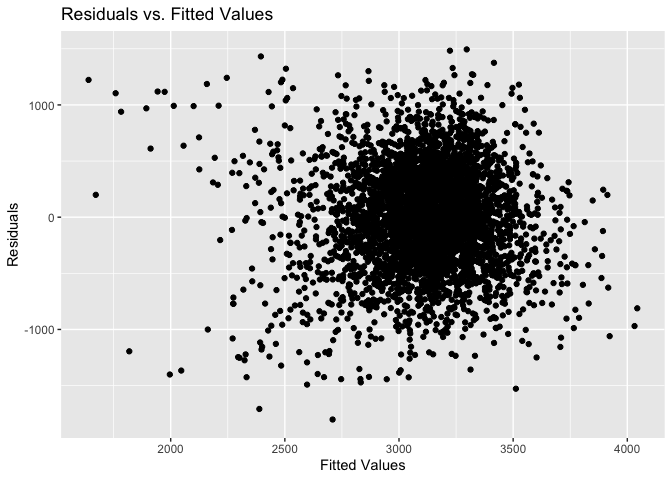
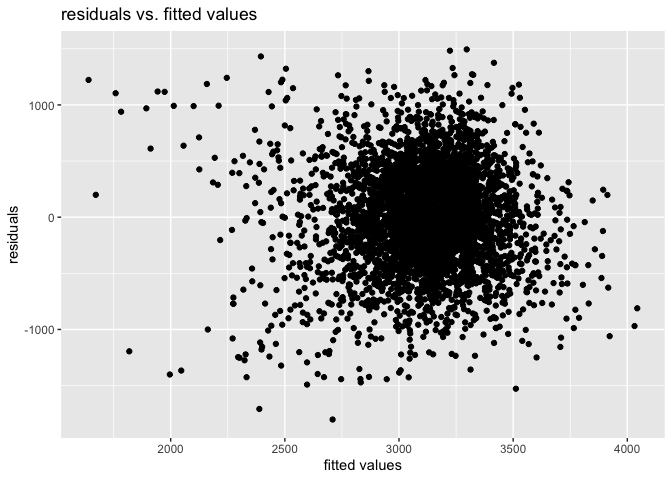
Finalized Problem 3 with all descriptions

Changed region(s): [[0.0938, 0.0, 0.4062, 0.0625], [0.4688, 0.9375, 0.5938, 1.0], [0.0, 0.4062, 0.0312, 0.5625]]

diff --git a/p8105_hw6_lah2231.md b/p8105_hw6_lah2231.md
@@ -177,9 +177,8 @@ city_model_results |>
   )
 ```
 
-![](p8105_hw6_lah2231_files/figure-gfm/unnamed-chunk-7-1.png)<!-- -->
-
-I plotted the adjusted odds ratio and confidence intervals for resolved
+![](p8105_hw6_lah2231_files/figure-gfm/unnamed-chunk-7-1.png)<!-- --> I
+plotted the adjusted odds ratio and confidence intervals for resolved
 homicides in each city, comparing male and female victims. The
 likelihood to resolve cases with male victims varies across cities, in
 cities that have an OR of less than 1 male victims are less likely to
@@ -224,6 +223,8 @@ missing_values
     ##    ppbmi     ppwt   smoken   wtgain 
     ##        0        0        0        0
 
+There are no missing values.
+
 ## Summarizing dataset
 
 ``` r
@@ -266,7 +267,7 @@ summary(birthweight_data)
     ##  3rd Qu.: 5.000   3rd Qu.: 28.00  
     ##  Max.   :60.000   Max.   : 89.00
 
-## Proposed model with maternal height, maternal weight gain, gestational age, and presence of malformations
+## My proposed model with maternal height, maternal weight gain, gestational age, and presence of malformations
 
 ``` r
 proposed_model <- lm(bwt ~ mheight + wtgain + gaweeks + malform, data = birthweight_data)
@@ -295,6 +296,18 @@ summary(proposed_model)
     ## Multiple R-squared:  0.2308, Adjusted R-squared:  0.2301 
     ## F-statistic: 325.3 on 4 and 4337 DF,  p-value: < 2.2e-16
 
+I picked maternal height, maternal weight gain, gestational age, and
+presence of malformations for my linear regression model with lm. This
+model shows that maternal height, maternal weight gain, and gestational
+age are correlated with birthweight. The three stars indicate very
+strong statistical significance for the corresponding predictors of p \<
+0.001. Malformations had no meaningful effect with p of 0.932. The
+adjusted R² of 0.2301 means that this model explains around 23% of the
+variability in birthweight with a residual standard error or typical
+prediction error of 449.4 grams.
+
+## Adding residuals and predictions
+
 ``` r
 library(modelr)
 
@@ -305,15 +318,22 @@ diagnostic_data <- birthweight_data |>
 ggplot(diagnostic_data, aes(x = pred, y = resid)) +
   geom_point() +
   labs(
-    title = "Residuals vs. Fitted Values",
-    x = "Fitted Values",
-    y = "Residuals"
+    title = "residuals vs. fitted values",
+    x = "fitted values",
+    y = "residuals"
   )
 ```
 
 ![](p8105_hw6_lah2231_files/figure-gfm/unnamed-chunk-13-1.png)<!-- --> I
 used modelr::add_predictions and modelr::add_residuals to prepare data
-for plotting residuals against fitted values.
+for plotting residuals against fitted values. The plot now shows
+residuals, the errors between observed and predicted values, plotted
+against fitted values, the predicted birthweights. The points are mostly
+concentrated in one place in the center, with no clear pattern, which
+suggests no obvious non-linearity or heteroscedasticity. Nevertheless
+the relatively wide spread of residuals indicates that the models fit
+explains the variability in birthweight only up to a certain point,
+consistent with the adjusted R² of 0.23.
 
 ## Model 1 Length and gestational age
 
@@ -341,6 +361,11 @@ summary(model1)
     ## Residual standard error: 333.2 on 4339 degrees of freedom
     ## Multiple R-squared:  0.5769, Adjusted R-squared:  0.5767 
     ## F-statistic:  2958 on 2 and 4339 DF,  p-value: < 2.2e-16
+
+Suggested Model 1 predicts birthweight using birth length and
+gestational age, explaining 57.67% of the variability because of the
+adjusted R² = 0.5767. Both predictors are significant with p \< 0.001.
+Residual standard error is 333.2 g.
 
 ## Model 2: Head circumference, length, sex, and interactions
 
@@ -373,6 +398,10 @@ summary(model2)
     ## Residual standard error: 287.7 on 4334 degrees of freedom
     ## Multiple R-squared:  0.6849, Adjusted R-squared:  0.6844 
     ## F-statistic:  1346 on 7 and 4334 DF,  p-value: < 2.2e-16
+
+This model explains 68.4% of the variability in birth weight with
+significant interactions between head circumference, birth length, and
+baby sex.
 
 ## Comparing Models using Cross Validation
 
@@ -414,4 +443,28 @@ ggplot(cv_summary, aes(x = model, y = rmse)) +
 
 ![](p8105_hw6_lah2231_files/figure-gfm/unnamed-chunk-16-1.png)<!-- --> I
 used crossv_mc to create train/test splits, fit models and calculate
-cross-validated RMSEs.
+cross-validated RMSEs. I performed cross-validation to compare the
+predictive performance in terms of RMSE of the three models for birth
+weight and visualized their RMSE distributions using boxplots. Model 2
+has the lowest RMSE, with a median around 290, indicating the best
+predictive performance. Model 1 performs a little bit worse with a
+median RMSE around 330. The proposed model is the worst of them with the
+highest RMSE around 450.
+
+``` r
+cv_summary |>
+  group_by(model) |>
+  summarize(
+    mean_rmse = mean(rmse),
+    median_rmse = median(rmse),
+    min_rmse = min(rmse),
+    max_rmse = max(rmse)
+  )
+```
+
+    ## # A tibble: 3 × 5
+    ##   model         mean_rmse median_rmse min_rmse max_rmse
+    ##   <chr>             <dbl>       <dbl>    <dbl>    <dbl>
+    ## 1 rmse_model1        334.        330.     304.     368.
+    ## 2 rmse_model2        289.        287.     265.     313.
+    ## 3 rmse_proposed      450.        451.     425.     470.
